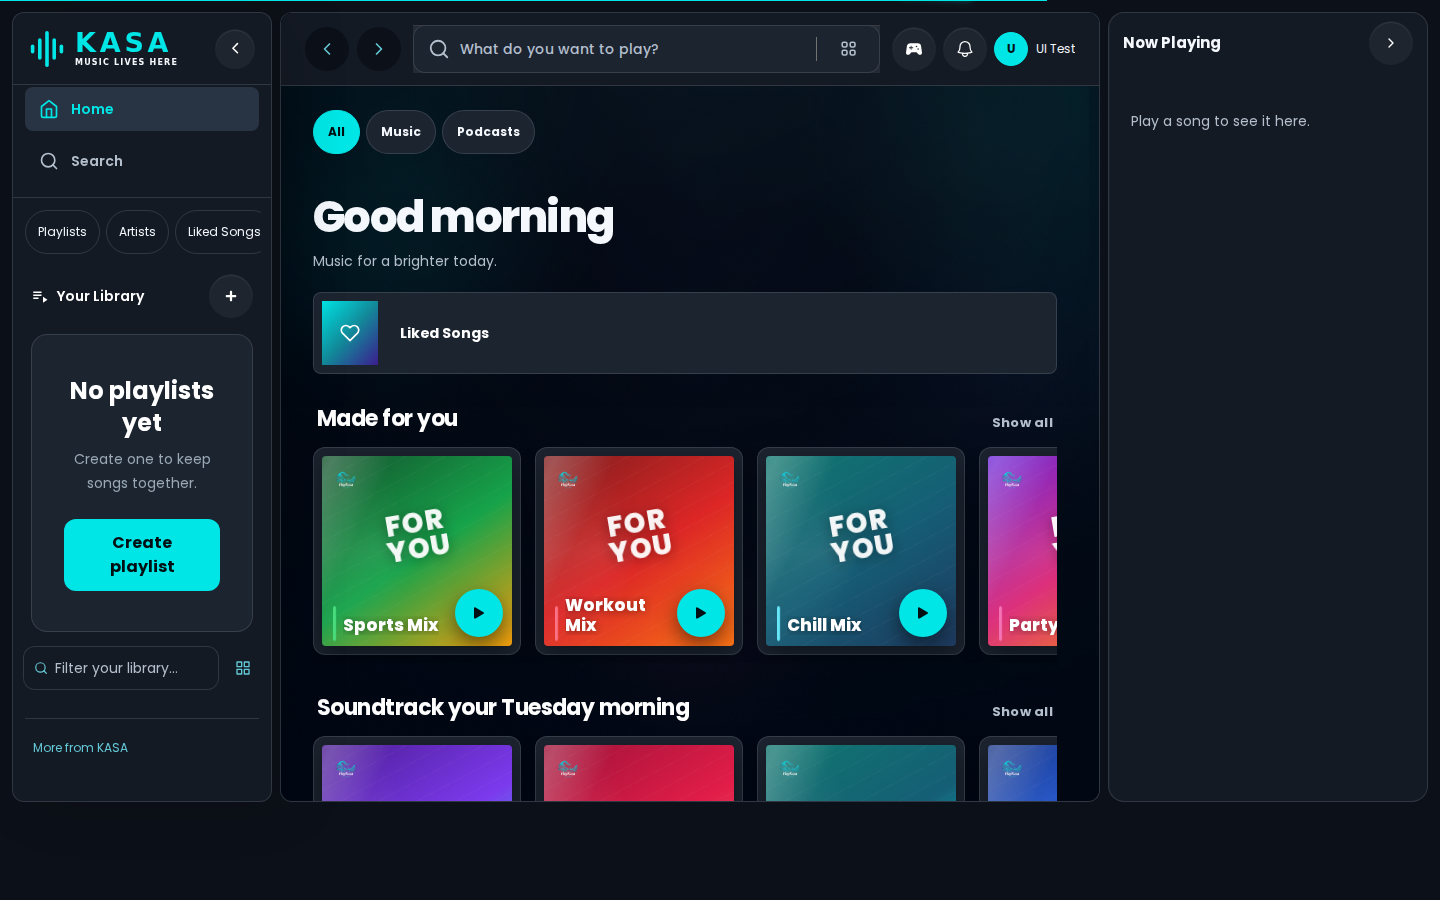
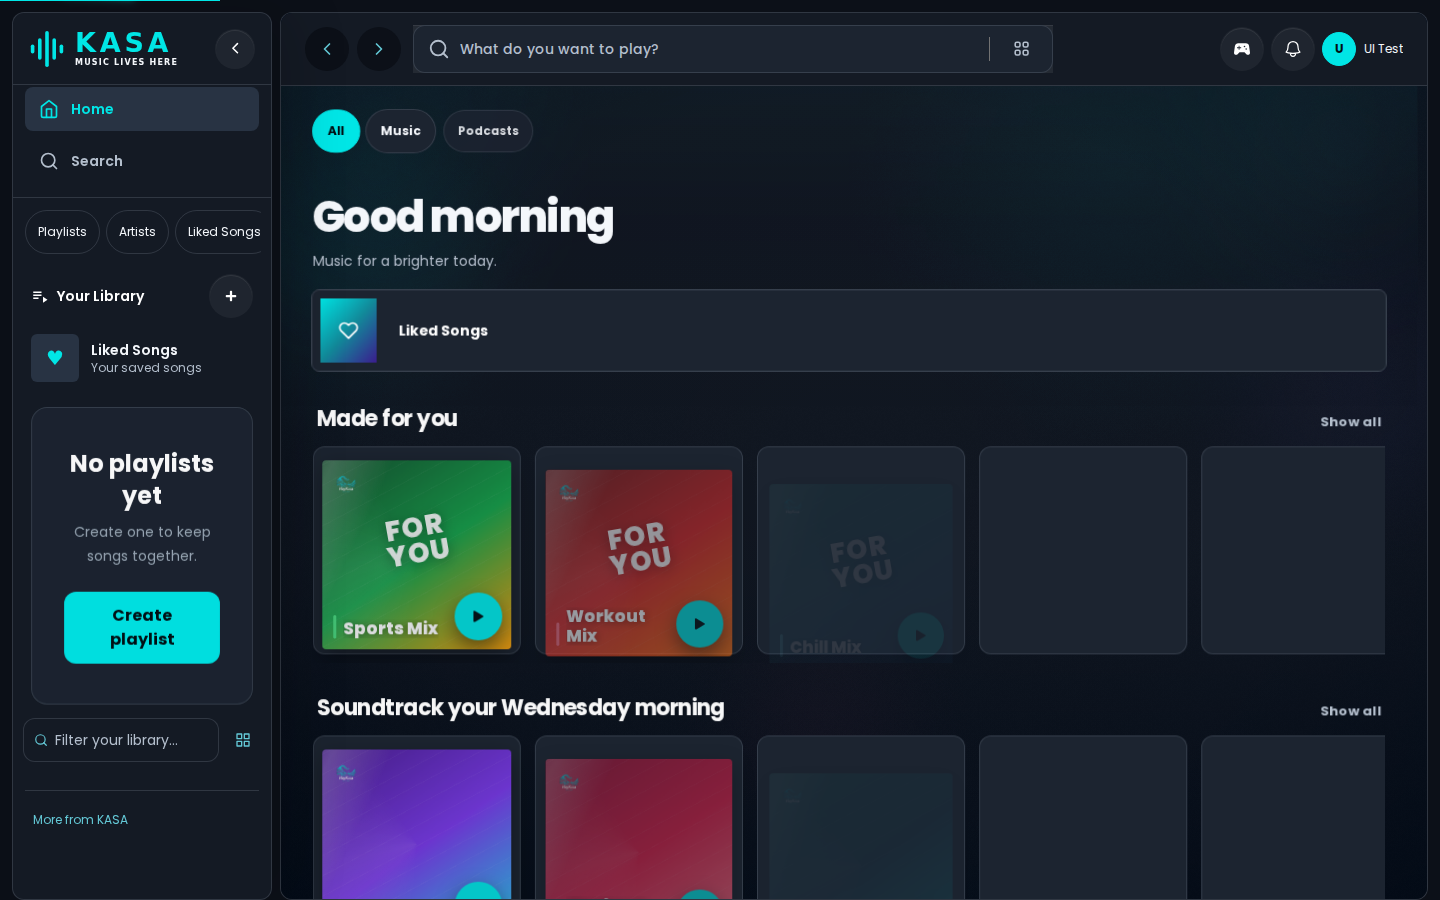
Address player, navigation and playlist UI review feedback

diff --git a/src/components/Layout/KasaShell.module.css b/src/components/Layout/KasaShell.module.css
@@ -1,8 +1,8 @@
 /* Shared responsive workspace presentation. Every rule is scoped to this navbar's mounted application.
    Existing authentication, settings, data and media-controller modules stay intact. */
 :global(body):has(.navbar) { font-family: var(--font-poppins), system-ui, -apple-system, BlinkMacSystemFont, "Segoe UI", sans-serif; }
-:global(.app-shell):has(.navbar) { --accent: var(--appearance-accent, #00e6e6); --play-ink: var(--appearance-play-ink, #001014); --teal: #64c9d7; --teal-mid: #22a6b3; --navy: #0c1018; --navy-deep: #0c1018; --navy-surface: #141a24; --navy-raised: #1c2430; --navy-panel: #283343; --text: #f4f7fb; --muted: #b4bfcd; --hairline-cyan: rgb(180 191 205 / 18%); --mobile-player-h: 64px; --mobile-tabbar-h: calc(64px + env(safe-area-inset-bottom, 0px)); height: 100dvh; max-height: 100dvh; min-height: 0; background: var(--navy-deep); }
-:global(.app-shell[data-has-track="false"]):has(.navbar) { --mobile-player-h: 0px; }
+:global(.app-shell):has(.navbar) { --accent: var(--appearance-accent, #00e6e6); --play-ink: var(--appearance-play-ink, #001014); --teal: #64c9d7; --teal-mid: #22a6b3; --navy: #0c1018; --navy-deep: #0c1018; --navy-surface: #141a24; --navy-raised: #1c2430; --navy-panel: #283343; --text: #f4f7fb; --muted: #b4bfcd; --hairline-cyan: rgb(180 191 205 / 18%); --desktop-player-h: 90px; --mobile-player-h: 64px; --mobile-tabbar-h: calc(64px + env(safe-area-inset-bottom, 0px)); height: 100dvh; max-height: 100dvh; min-height: 0; background: var(--navy-deep); }
+:global(.app-shell[data-has-track="false"]):has(.navbar) { --desktop-player-h: 0px; --mobile-player-h: 0px; }
 .navbar { margin: 0; border-radius: 0; background: var(--navy-surface); border: 0; border-bottom: 1px solid var(--hairline-cyan); box-shadow: none; min-height: 72px; padding: 12px 24px; gap: 12px; grid-template-columns: auto minmax(0, 1fr) auto; min-width: 0; }
 .navbar :global(.navbar-search-cluster) { width: 100%; max-width: 640px; min-width: 0; justify-self: stretch; gap: 0; }
 .navbar :global(.navbar-slot-start),
@@ -109,13 +109,13 @@
  .history { display: flex; }
  .navbar :global(.nav-home-btn),
  .navbar :global(.brand-mark) { display: none; }
- :global(.app-shell):has(.navbar) { display: grid; grid-template-columns: min(var(--sidebar-live-w, 260px), 25vw) 8px minmax(0, 1fr); grid-template-rows: minmax(0, 1fr) 90px; gap: 8px 0; padding: 12px 12px 0; }
+ :global(.app-shell):has(.navbar) { display: grid; grid-template-columns: min(var(--sidebar-live-w, 260px), 25vw) 8px minmax(0, 1fr); grid-template-rows: minmax(0, 1fr) var(--desktop-player-h); gap: 8px 0; padding: 12px 12px 0; }
  :global(.app-shell.is-sidebar-collapsed):has(.navbar) { grid-template-columns: 76px 8px minmax(0, 1fr); }
  :global(.app-shell):has(.navbar) :global(.app-sidebar) { position: relative; inset: auto; grid-column: 1; grid-row: 1; width: 100%; height: 100%; transform: none; min-height: 0; }
  :global(.app-shell):has(.navbar) :global(.sidebar-resizer) { grid-column: 2; grid-row: 1; position: relative; display: block; width: 8px; margin: 0; inset: auto; }
  :global(.app-shell):has(.navbar) :global(.app-stage) { grid-column: 3; grid-row: 1; min-width: 0; min-height: 0; }
- :global(.app-shell:not([data-player="full"])):has(.navbar) :global(.app-player) { height: 90px; max-height: 90px; }
- :global(.app-shell):has(.navbar) :global(.player-dock:not(.player-dock--full)) { height: 90px; min-height: 90px; }
+ :global(.app-shell:not([data-player="full"])):has(.navbar) :global(.app-player) { height: var(--desktop-player-h); max-height: var(--desktop-player-h); }
+ :global(.app-shell):has(.navbar) :global(.player-dock:not(.player-dock--full)) { height: var(--desktop-player-h); min-height: var(--desktop-player-h); }
  :global(.app-shell):has(.navbar) :global(.now-playing-panel), :global(.app-shell):has(.navbar) :global(.right-panel-resizer) { display: none; }
  :global(.app-shell):has(.navbar) :global(.app-tabbar) { display: none; }
 }
@@ -138,12 +138,11 @@
  :global(.app-shell:not([data-player="full"])):has(.navbar) :global(.app-player) { grid-column: 1; grid-row: 2; height: var(--mobile-player-h); max-height: var(--mobile-player-h); }
  :global(.app-shell):has(.navbar) :global(.player-dock:not(.player-dock--full)) { height: var(--mobile-player-h); min-height: var(--mobile-player-h); }
  .navbar { min-height: 56px; padding: 8px 12px; gap: 8px; grid-template-columns: auto minmax(0, 1fr) auto; grid-template-areas: none; }
- .navbar :global(.navbar-slot-start) { display: flex; gap: 0; }
+ .navbar :global(.navbar-slot-start) { display: flex; gap: 0; grid-area: auto; }
  .navbar :global(.navbar-search-cluster) { grid-area: auto; width: 100%; max-width: none; justify-self: stretch; }
  .navbar :global(.navbar-slot-end) { grid-area: auto; }
  .navbar :global(.search-field) { min-height: 44px; height: 44px; }
  .navbar :global(.navbar-slot-start) > :not(button),
- .navbar :global(.navbar-slot-start) > button:first-child,
  .navbar :global(.search-split),
  .navbar :global(.search-browse) { display: none; }
 
@@ -182,4 +181,20 @@
 }
 @media (max-width: 767px), (orientation: landscape) and (pointer: coarse) and (max-height: 540px) and (max-width: 1100px) {
  .history { display: none; }
+}
+
+/* Cancel inherited named mobile grid areas: all controls share one row. */
+.navbar :global(.navbar-slot-start), .navbar :global(.navbar-slot-end), .navbar :global(.navbar-search-cluster) { grid-area: auto; }
+@media (max-width: 767px), (orientation: landscape) and (pointer: coarse) and (max-height: 540px) and (max-width: 1100px) {
+ .navbar { padding: 8px; gap: 4px; align-items: center; }
+ .navbar :global(.navbar-slot-start) > button:nth-child(2) { display: none; }
+ .navbar :global(.navbar-slot-start) > button:nth-child(2):not(:disabled) { display: grid; }
+ .navbar :global(.navbar-slot-end) > :not(:last-child) { display: none; }
+ .searchRoute { grid-template-columns: auto minmax(0, 1fr); }
+}
+@media (min-width: 1181px) {
+ :global(.app-shell[data-has-track="false"]):has(.navbar) { grid-template-columns: min(var(--sidebar-live-w, 260px), 25vw) 8px minmax(0, 1fr); row-gap: 0; }
+ :global(.app-shell[data-has-track="false"].is-sidebar-collapsed):has(.navbar) { grid-template-columns: 76px 8px minmax(0, 1fr); }
+ :global(.app-shell[data-has-track="false"]):has(.navbar) :global(.now-playing-panel),
+ :global(.app-shell[data-has-track="false"]):has(.navbar) :global(.right-panel-resizer) { display: none; }
 }

diff --git a/e2e/ui-review.spec.js b/e2e/ui-review.spec.js
@@ -1,0 +1,67 @@
+const { test, expect } = require('@playwright/test');
+const { installUiFixtures } = require('./fixtures/ui-redesign');
+test.afterEach(async ({ page }, testInfo) => {
+  if (!page.isClosed()) await page.screenshot({ path: testInfo.outputPath('review.png') });
+});
+
+test('desktop reserves player space only after a song is selected', async ({ page }) => {
+  await installUiFixtures(page);
+  await page.setViewportSize({ width: 1440, height: 900 });
+  await page.goto('/search');
+  await expect(page.getByRole('heading', { name: 'Browse all', exact: true })).toBeVisible();
+  const shell = page.locator('.app-shell');
+  await expect(shell).toHaveAttribute('data-has-track', 'false');
+  await expect.poll(() => shell.evaluate(el => getComputedStyle(el).getPropertyValue('--desktop-player-h').trim())).toBe('0px');
+  await expect(page.getByTestId('player-dock')).toHaveCount(0);
+  await expect(page.locator('.now-playing-panel')).toBeHidden();
+});
+
+test('phone navbar controls share a row without overflow', async ({ page }) => {
+  await installUiFixtures(page);
+  for (const width of [320, 390, 640]) {
+    await page.setViewportSize({ width, height: 844 });
+    await page.goto('/search');
+    const menu = page.getByRole('button', { name: 'Open menu', exact: true }).first();
+    const search = page.getByRole('combobox').first();
+    await expect(menu).toBeVisible();
+    await expect(search).toBeVisible();
+    const a = await menu.boundingBox(); const b = await search.boundingBox();
+    expect(Math.abs(a.y + a.height / 2 - b.y - b.height / 2)).toBeLessThanOrEqual(3);
+    expect(await page.evaluate(() => document.documentElement.scrollWidth <= innerWidth + 1)).toBe(true);
+  }
+});
+
+test('liked collection is built in and unavailable tracks keep their rows', async ({ page }) => {
+  await installUiFixtures(page);
+  await page.route('**/api/favourite', route => route.fulfill({ json: { success: true, data: { favourites: ['abcdefghijk', '12345678901'] } } }));
+  await page.route('**/api/youtube-videos?**', route => route.fulfill({ json: { tracks: [{ id: 'abcdefghijk', title: 'Available song', channel: 'Artist', duration: 200, thumbnail: '/icon-192x192.png' }] } }));
+  await page.goto('/library');
+  await expect(page.locator('.app-content').getByRole('link', { name: /Liked Songs/ }).first()).toBeVisible();
+  await page.getByRole('button', { name: 'Playlists', exact: true }).click();
+  await expect(page.locator('.app-content').getByRole('link', { name: /Liked Songs/ }).first()).toBeVisible();
+  await page.goto('/library/liked');
+  const missing = page.locator('.playlist-track-row[data-unavailable="true"]');
+  await expect(missing).toContainText('Unavailable song');
+  expect(await missing.locator('button').first().evaluate(el => Number(getComputedStyle(el).opacity))).toBeLessThanOrEqual(.4);
+  await expect(missing.getByRole('button', { name: 'Unavailable song unavailable', exact: true })).toBeDisabled();
+  await expect(missing.locator('button[data-item-menu-trigger]')).toHaveCount(0);
+  for (const width of [320, 390, 768, 1440]) {
+    await page.setViewportSize({ width, height: 900 });
+    await expect(page.locator('.playlist-track-row').getByText('3:20', { exact: true })).toBeVisible();
+    expect(await page.evaluate(() => document.documentElement.scrollWidth <= innerWidth + 1)).toBe(true);
+  }
+  await page.getByRole('button', { name: 'Play Available song', exact: true }).click();
+  await expect(page.getByTestId('player-dock')).toContainText('Available song');
+  await expect(page.locator('.app-shell')).toHaveAttribute('data-has-track', 'true');
+  await expect(page.locator('.now-playing-panel')).toBeVisible();
+  await expect.poll(() => page.locator('.app-shell').evaluate(el => getComputedStyle(el).getPropertyValue('--desktop-player-h').trim())).toBe('90px');
+});
+
+test('metadata request failures show an error rather than unavailable song rows', async ({ page }) => {
+  await installUiFixtures(page);
+  await page.route('**/api/favourite', route => route.fulfill({ json: { success: true, data: { favourites: ['abcdefghijk'] } } }));
+  await page.route('**/api/youtube-videos?**', route => route.fulfill({ status: 503, json: { success: false, code: 'SERVICE_UNAVAILABLE', message: 'Please retry' } }));
+  await page.goto('/library/liked');
+  await expect(page.locator('.playlist-track-row[data-unavailable="true"]')).toHaveCount(0);
+  await expect(page.getByRole('button', { name: /retry|try again/i }).first()).toBeVisible();
+});

diff --git a/src/components/Library/PlaylistTrackRow.jsx b/src/components/Library/PlaylistTrackRow.jsx
@@ -33,22 +33,26 @@ function PlaylistTrackRow({
   onPlay,
   onRemove,
 }) {
+  const unavailable = track.unavailable === true || track.playable === false;
   const title = cleanTitle(track.title);
   const artist = cleanTitle(track.channel);
   return (
     <ContextMenuTarget
+      data-unavailable={unavailable}
+      title={unavailable ? "This song is unavailable" : undefined}
       className={`playlist-track-row group grid min-h-[66px] items-center gap-2 rounded-lg px-2 py-1.5 hover:bg-white/[0.075] ${active ? "bg-white/[0.06]" : ""}`}
     >
       <button
         type="button"
-        aria-label={`Play ${title}`}
+        disabled={unavailable}
+        aria-label={unavailable ? `${title} unavailable` : `Play ${title}`}
         onClick={() => onPlay(track)}
         className={`grid h-11 w-11 place-items-center rounded-full text-sm ${active ? "text-[#00e6e6]" : "text-gray-400 group-hover:text-white"}`}
       >
         <span className="group-hover:hidden">{index + 1}</span>
         <FiPlay className="hidden fill-current group-hover:block" />
       </button>
-      <button type="button" onClick={() => onPlay(track)} className="flex min-w-0 items-center gap-3 text-left">
+      <button type="button" disabled={unavailable} onClick={() => onPlay(track)} className="flex min-w-0 items-center gap-3 text-left">
         <MediaImage
           src={track.thumbnail}
           size="mq"
@@ -65,12 +69,12 @@ function PlaylistTrackRow({
       <span className="hidden text-xs text-gray-400 lg:block">{formatAddedDate(track.addedAt)}</span>
       <span className="hidden text-right text-xs tabular-nums text-gray-400 md:block">{formatDuration(track.duration)}</span>
       <div className="flex items-center justify-end gap-1">
-        <AddToQueueButton
+        {!unavailable && <AddToQueueButton
           track={track}
           onRemove={removable ? () => onRemove(track) : undefined}
           removeLabel={liked ? "Remove from Liked Songs" : "Remove from playlist"}
           className="pointer-hover-action text-gray-500 hover:text-white"
-        />
+        />}
         {removable ? (
           <button
             type="button"

diff --git a/src/app/globals.css b/src/app/globals.css
@@ -902,9 +902,9 @@ select:-webkit-autofill {
   .collection-title { font-size: clamp(28px, 5cqi, 48px); line-height: 1.2; overflow-wrap: anywhere; }
   .collection-hero { background: var(--navy-raised); border-bottom: 1px solid var(--hairline); }
   .collection-tracks { container-type: inline-size; }
-  .playlist-track-row, .playlist-track-heading { grid-template-columns: 44px minmax(0, 1fr) 96px; }
-  .playlist-track-row > :nth-child(3), .playlist-track-row > :nth-child(4), .playlist-track-row > :nth-child(5),
-  .playlist-track-heading > :nth-child(3), .playlist-track-heading > :nth-child(4), .playlist-track-heading > :nth-child(5) { display: none; }
+  .playlist-track-row, .playlist-track-heading { grid-template-columns: 44px minmax(0, 1fr) 44px 44px; }
+  .playlist-track-row > :nth-child(3), .playlist-track-row > :nth-child(4),
+  .playlist-track-heading > :nth-child(3), .playlist-track-heading > :nth-child(4) { display: none; }
   @container (min-width: 640px) {
     .playlist-track-row, .playlist-track-heading { grid-template-columns: 44px minmax(0, 2fr) minmax(0, 1fr) 60px 96px; }
     .playlist-track-row > :nth-child(3), .playlist-track-row > :nth-child(5),
@@ -3983,4 +3983,14 @@ body {
 .playlist-track-row {
   content-visibility: auto;
   contain-intrinsic-size: 66px;
+}
+
+.playlist-track-row > :nth-child(5), .playlist-track-heading > :nth-child(5) { display: block; }
+.playlist-track-row[data-unavailable="true"] { color: var(--muted); background: transparent; }
+.playlist-track-row[data-unavailable="true"] > :not(:last-child) { opacity: .4; }
+.playlist-track-row[data-unavailable="true"] button:disabled { cursor: not-allowed; }
+.playlist-track-row[data-unavailable="true"] .group-hover\:block { display: none; }
+.playlist-track-row[data-unavailable="true"] .group-hover\:hidden { display: inline; }
+@container (max-width: 639px) {
+ .playlist-track-row:not([data-unavailable="true"]) > :last-child > button { display: none; }
 }

diff --git a/src/components/Library/PlaylistDetail.jsx b/src/components/Library/PlaylistDetail.jsx
@@ -172,7 +172,7 @@ function AccountPlaylistDetail({ kind, playlistId, session, status, owner }) {
         }
         const ids = validYouTubeIds(nextCollection[isLiked ? "favourites" : "songs"]);
         if (isLiked) ids.reverse();
-        const hydratedTracks = await hydrateYouTubeTracks(ids);
+        const hydratedTracks = await hydrateYouTubeTracks(ids, { retainUnavailable: true });
         const dateMap = nextCollection[isLiked ? "favouriteAddedAt" : "songAddedAt"];
         const datedTracks = hydratedTracks.map((track) => ({
           ...track,
@@ -256,9 +256,10 @@ function AccountPlaylistDetail({ kind, playlistId, session, status, owner }) {
   };
 
   const createQueue = async () => {
-    if (!discoveryShuffle) return tracks;
+    const playableTracks = tracks.filter((track) => track.unavailable !== true && track.playable !== false);
+    if (!discoveryShuffle) return playableTracks;
     const smartTracks = await fetchDiscoveryRecommendations();
-    return interleaveRecommendations(tracks, [...smartTracks]);
+    return interleaveRecommendations(playableTracks, [...smartTracks]);
   };
 
   const seedTracks = (items) =>
@@ -275,6 +276,7 @@ function AccountPlaylistDetail({ kind, playlistId, session, status, owner }) {
   };
 
   const playTrack = async (track) => {
+    if (track.unavailable === true || track.playable === false) return;
     const queue = seedTracks(await createQueue());
     if (!live.current) return;
     const selected = queue.find((item) => item.id === track.id) || {

diff --git a/src/components/Sidebar/Playlists.jsx b/src/components/Sidebar/Playlists.jsx
@@ -89,6 +89,7 @@ const AccountPlaylists = ({ owner, status }) => {
         <button type="button" onClick={() => setShow(true)} className="icon-btn h-11 w-11" aria-label="Create playlist"><FaPlus aria-hidden="true" className="text-xs" /></button>
       </div>
       <div className="flex min-h-0 flex-col">
+        {status === "authenticated" && <Link href="/library/liked" onClick={() => setShowNav(false)} className="mb-2 flex min-h-16 items-center gap-3 rounded-lg px-2 py-2 hover:bg-[var(--navy-panel)]"><span aria-hidden="true" className="grid h-12 w-12 shrink-0 place-items-center rounded-md bg-[var(--navy-panel)] text-xl text-[var(--accent)]">♥</span><span><span className="block text-sm font-semibold">Liked Songs</span><span className="block text-xs text-[var(--muted)]">Your saved songs</span></span></Link>}
         {loading ? <p className="px-2 py-3 text-xs text-[var(--muted)]">Loading playlists…</p> : null}
         {!loading && error ? <div className="px-2 py-2"><UserMessage compact title={error.title} message={error.message} onRetry={error.retryable ? () => setRefreshKey((value) => value + 1) : undefined} href={error.action === "login" ? "/login" : undefined} hrefLabel="Log in" /></div> : null}
         {!loading && !error && playlists.length === 0 ? <div className="px-2 py-2"><EmptyState title="No playlists yet" message="Create one to keep songs together." actionLabel="Create playlist" onAction={() => setShow(true)} /></div> : null}

diff --git a/src/services/libraryApi.js b/src/services/libraryApi.js
@@ -36,7 +36,7 @@ function libraryLoadError(error, fallback) {
     : toUserError(error, fallback);
 }
 
-export async function hydrateYouTubeTracks(values = []) {
+export async function hydrateYouTubeTracks(values = [], { retainUnavailable = false } = {}) {
   const ids = validYouTubeIds(values);
   if (ids.length === 0) return [];
   const cache = typeof window === "undefined" ? {} : readTrackCache();
@@ -92,7 +92,13 @@ export async function hydrateYouTubeTracks(values = []) {
     ...hydrated.map((track) => [track.id, track]),
     ...fetched.map((track) => [track.id, track]),
   ]);
-  return ids.map((id) => tracksById.get(id)).filter(Boolean);
+  // A successful details response omits deleted/private videos. Keep their saved
+  // positions visible; request failures still throw instead of marking songs unavailable.
+  if (!retainUnavailable) return ids.map((id) => tracksById.get(id)).filter(Boolean);
+  return ids.map((id) => tracksById.get(id) || {
+    id, title: "Unavailable song", channel: "Video unavailable or private",
+    thumbnail: "", duration: 0, unavailable: true,
+  });
 }
 
 export async function getFavouriteLibrary() {

diff --git a/e2e/playback.spec.js b/e2e/playback.spec.js
@@ -221,7 +221,7 @@ test("responsive player expands, exposes queue modes and preserves deck hosts", 
   await expect(transportScope.getByRole("button", { name: "Repeat queue" })).toHaveAttribute("aria-pressed", "true");
   expect(favouriteRequests).toHaveLength(1);
   await page.screenshot({ path: testInfo.outputPath("player-expanded.png") });
-  await dialog.getByRole("button", { name: "Queue", exact: true }).click();
+  await dialog.getByRole("button", { name: /^(Queue|Show queue)$/ }).first().click();
   const queueDialog = page.getByRole("dialog", { name: "Queue" });
   await expect(queueDialog.getByRole("button", { name: /^Second track/ })).toBeVisible();
   await page.keyboard.press("Escape");

diff --git a/src/components/Library/LibraryView.jsx b/src/components/Library/LibraryView.jsx
@@ -333,7 +333,7 @@ function AccountLibraryView({ session, status, owner }) {
       if (sort === "added") return new Date(right.createdAt || 0) - new Date(left.createdAt || 0);
       return new Date(right.updatedAt || 0) - new Date(left.updatedAt || 0);
     });
-    return filter === "all" ? [likedItem, ...visible] : visible;
+    return ["all", "playlists", "by-you", "liked"].includes(filter) ? [likedItem, ...visible] : visible;
   }, [covers, favourites, filter, playlists, session?.user?.id, sort, status]);
 
   return (

diff --git a/e2e/ui-redesign.spec.js b/e2e/ui-redesign.spec.js
@@ -26,7 +26,7 @@ async function expectInViewport(locator, page) {
 }
 
 test("shell reflows at policy boundaries without exposing conflicting navigation", async ({ page, isMobile }) => {
-  await installUiFixtures(page);
+  await installUiFixtures(page, { playback: true });
   await page.goto("/search", { waitUntil: "domcontentloaded" });
   for (const width of [320, 390, 640, 767, 768, 1024, 1180, 1181, 1440, 1920]) {
     await page.setViewportSize({ width, height: 900 });

diff --git a/docs/qa/pr23-ui-redesign.md b/docs/qa/pr23-ui-redesign.md
@@ -75,3 +75,19 @@ The first combined auth/routes run ended with exit 1 without an aggregate report
 | pr23-ui/after-narrow-login.png | 320x740 desktop-pointer viewport |
 
 Both pointer contexts also ran the behavioral visual matrix. The checked-in images are the desktop-context samples; coarse-pointer phone rotation/provider identity is covered by the existing mobile playback suite.
+
+## October 7 owner review follow-up
+
+Requested fixes: collapse empty desktop player space (including the Now Playing panel), align navbar controls, include the built-in Liked Songs collection in library views, retain duration in compact playlist columns, and dim unavailable saved songs while preventing play/queue actions.
+
+Root causes: fixed 90px shell row; inherited named navbar grid areas; duration hidden below a 640px content width; Liked Songs omitted from playlist/liked filters and sidebar list; successful video-details responses dropped missing saved IDs during hydration.
+
+This follow-up expressly includes minimal behavior needed by the owner's unavailable-song request: client hydration retains omitted IDs as unavailable placeholders; row play/queue actions are disabled; collection queues exclude these known-unavailable rows. It also adjusts built-in library item inclusion. This supersedes the initial className-only boundary for those specific changes. No backend, provider lifecycle, radio algorithm, persisted playlist mutation or native code is changed.
+
+Unavailable detection here means a saved ID omitted by a successful details response, or an explicit unavailable/playable=false track flag. Transient request errors remain errors, not unavailable-song classifications. Region/account-specific playback failures are not predicted by metadata alone; no live provider verification is claimed. Unknown durations remain an em dash rather than fabricated time.
+
+Follow-up validation (Node 22): 694 unit tests passed; lint, typecheck, production build and diff whitespace checks passed. Desktop shell/visual/playlist/500-row suite exited 0 with the runner recording passed and no failed tests (23 cases). Final desktop/mobile playback/theater/virtualization/review run: 36 passed, 3 device-specific skips, 1 stale test-locator failure. The trace showed the mobile compact header had its existing Show queue control while the test requested Queue only; the test now accepts both existing labels. The affected mobile case reran and passed (6.7s). No production media component changed to resolve that test mismatch.
+
+Updated screenshots show the collapsed empty desktop player, aligned phone header and built-in Liked Songs. Missing-video placeholders are opt-in for playlist details; other hydration callers retain their previous omission behavior. Firefox/WebKit/native/live-provider limitations from the initial ledger still apply.
+
+The final built-in Liked Songs/unavailable rows/duration/player-appearance check passed again on the final build (5.0s). Screenshot: pr23-ui/after-unavailable-playlist.png. Playable entries retain their duration and actions; the unavailable entry stays in order with dimmed text/artwork and disabled playback.

diff --git a/docs/superpowers/specs/2026-10-06-pr23-responsive-ui-redesign-design.md b/docs/superpowers/specs/2026-10-06-pr23-responsive-ui-redesign-design.md
@@ -79,3 +79,7 @@ Review final diff for changes outside the presentation allowlist. Pull request d
 ## Review checkpoint
 
 Design and implementation-plan reviews are complete following the user review of 2026-10-06. Execute sequentially with baseline evidence and targeted validation per surface; production changes remain UI-only.
+
+## Owner-requested follow-up — October 7
+
+Empty desktop playback chrome must collapse until a track is selected; phone navbar controls must align; built-in Liked Songs stays visible in library views; compact collection rows retain duration; known-unavailable songs remain dimmed and disabled rather than disappearing. These requests authorize the minimal client-side library inclusion, metadata placeholder and playback-eligibility changes required by those states. Provider mounting, backend, radio logic and persisted user playlist data remain outside this follow-up. See docs/qa/pr23-ui-redesign.md for validation and detection limits.
